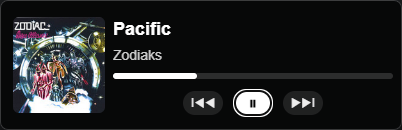
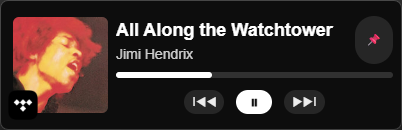
Update README features, add MediaMonkey to exlusion list for shuffle/repeat buttons
Expanded the README with a detailed features list, supported media sources, and installation instructions. Added 'mediamonkey' to the exlusion list for shuffle/repeat buttons in appInfo.ts. Updated the SimpleMediaOverlay.png asset.

diff --git a/app/overlay/appInfo.ts b/app/overlay/appInfo.ts
@@ -36,6 +36,7 @@ export const blockedAppsForPlaybackModes = [
     'brave',
     'edge',
     'opera',
+    'mediamonkey',
 ];
 
 /**

diff --git a/README.md b/README.md
@@ -6,6 +6,14 @@ I wanted to build a simple media overlay app that stays on top, so I vibe-coded 
 
 ![Simple Media Overlay](./assets/SimpleMediaOverlay.png)
 
+## Features
+
+- 📻 Always-on-top overlay that displays currently playing media
+- 📍 Pin the overlay to avoid accidentally moving it, unpin to allow dragging again
+- 👀 Little icon in the bottom left corner of the album art, showing the source of the currently playing media
+- ⏯ Play/Pause, Skip to next or previous track or use the seek bar to skip to a certain part of the currently playing media
+- ℹ Auto-scrolling for longer titles
+
 ## Running the overlay
 
 Run this command to launch the overlay in dev mode:
@@ -20,15 +28,44 @@ If you want to actually build from the source, run this command:
 npx tauri build
 ```
 
+Alternatively, simply download either the NSIS or MSI installer from the [latest release](https://github.com/fl0-at/simple-media-overlay/releases/tag/v0.2.0).
+
+## Supported media playback sources
+
+Any media player or application that publishes metadata about the currently playing media via GSMTC APIs should work out of the box, but these ones were tested and have their own dedicated icons:
+
+- 🌐 Google Chrome
+- 🌎 Microsoft Edge
+- 🦊 Mozilla Firefox
+- 🦁 Brave Browser
+- ⭕ Opera Browser
+- 🌊 Tidal Desktop Client
+- 🚧 Videolan VLC (UWP App only as of now)
+- 🐒 MediaMonkey 2024
+- 🪟 Windows 11 default media player
+
+For the following apps, I have not tested, but they should have their own icons:
+
+- 🍎 Apple Music
+- 🎧 Apple Podcasts
+- 🧭 Safari Browser
+- ▶ Groove Media Player
+- 🛜 Spotify
+
+_I also added Kodi, but later found out it does not actually publish any media metadata via GSMTC APIs, and I can confirm that the overlay will not display media that is played via Kodi._
+
+**If you want me to add a specific media player/app icon, please [open a new issue](https://github.com/fl0-at/simple-media-overlay/issues/new)!**
+
 ## Current Limitations
 
 For some reason, the shuffle and repeat functionality don't seem to work when playing media via the following apps, so I've hidden those buttons for now in those cases, as they wouldn't be functional anyway:
 
-- Chrome
-- Edge
-- Firefox
-- Brave
-- Opera
-- Tidal Desktop Client
+- 🌐 Google Chrome
+- 🌎 Microsoft Edge
+- 🦊 Mozilla Firefox
+- 🦁 Brave Browser
+- ⭕ Opera Browser
+- 🌊 Tidal Desktop Client
+- 🐒 MediaMonkey 2024
 
-Since this app is based around the win-gsmtc crate, please don't expect me to add support for other OSes 🙂
+_Since this app is currently based around the [win-gsmtc](https://docs.rs/win-gsmtc/latest/gsmtc/) crate, please don't expect me to add support for other OSes - I might switch to another cross-platform crate later_ 🙂
